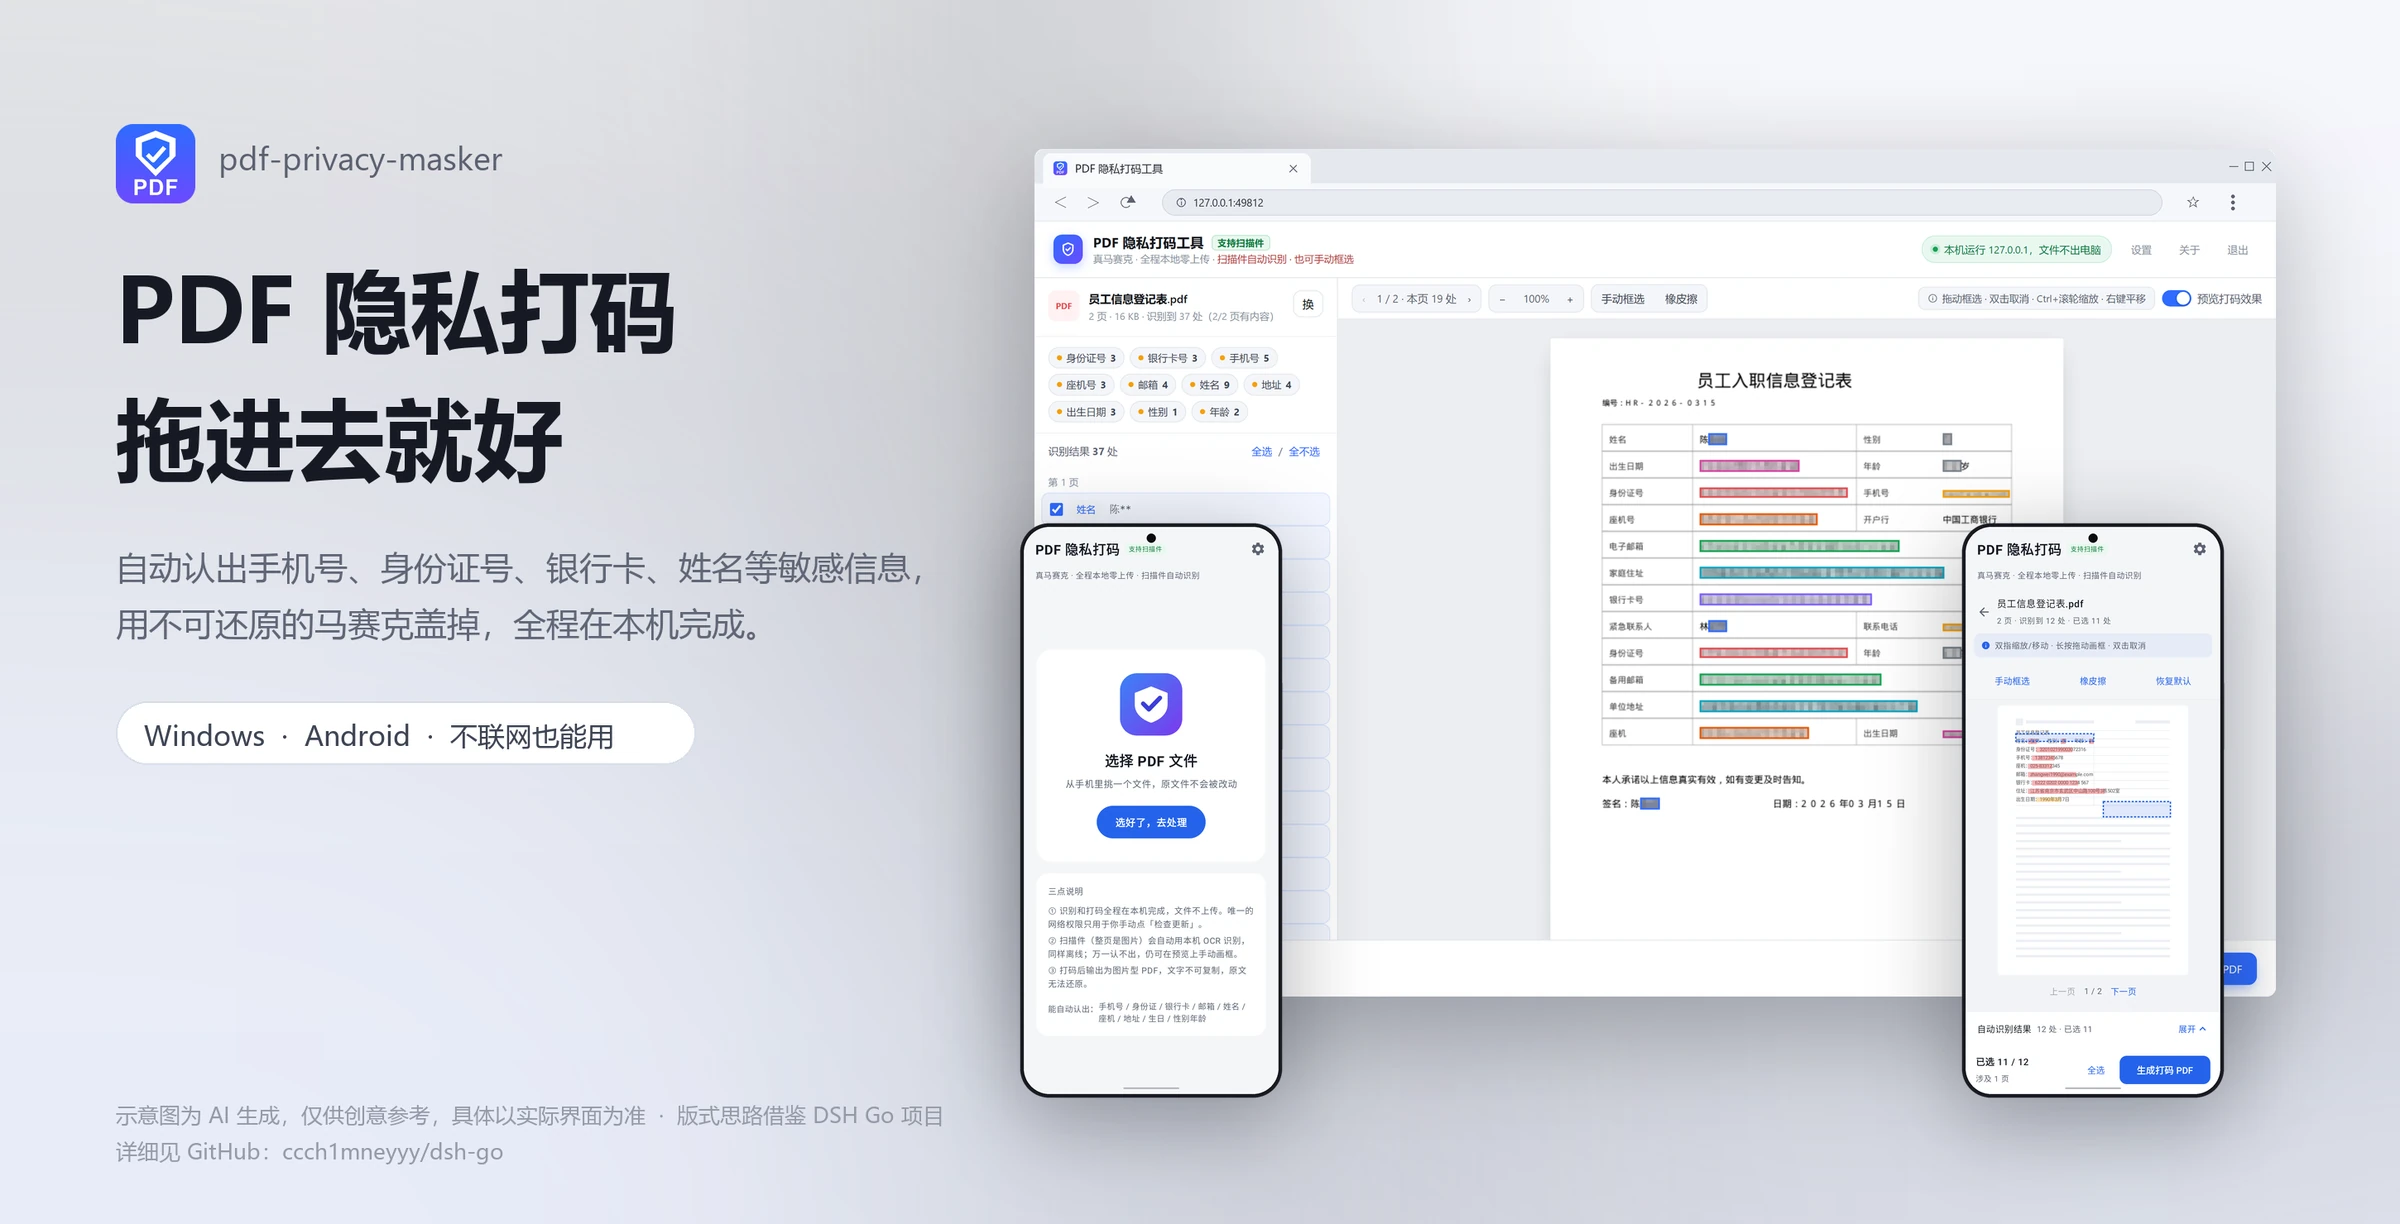
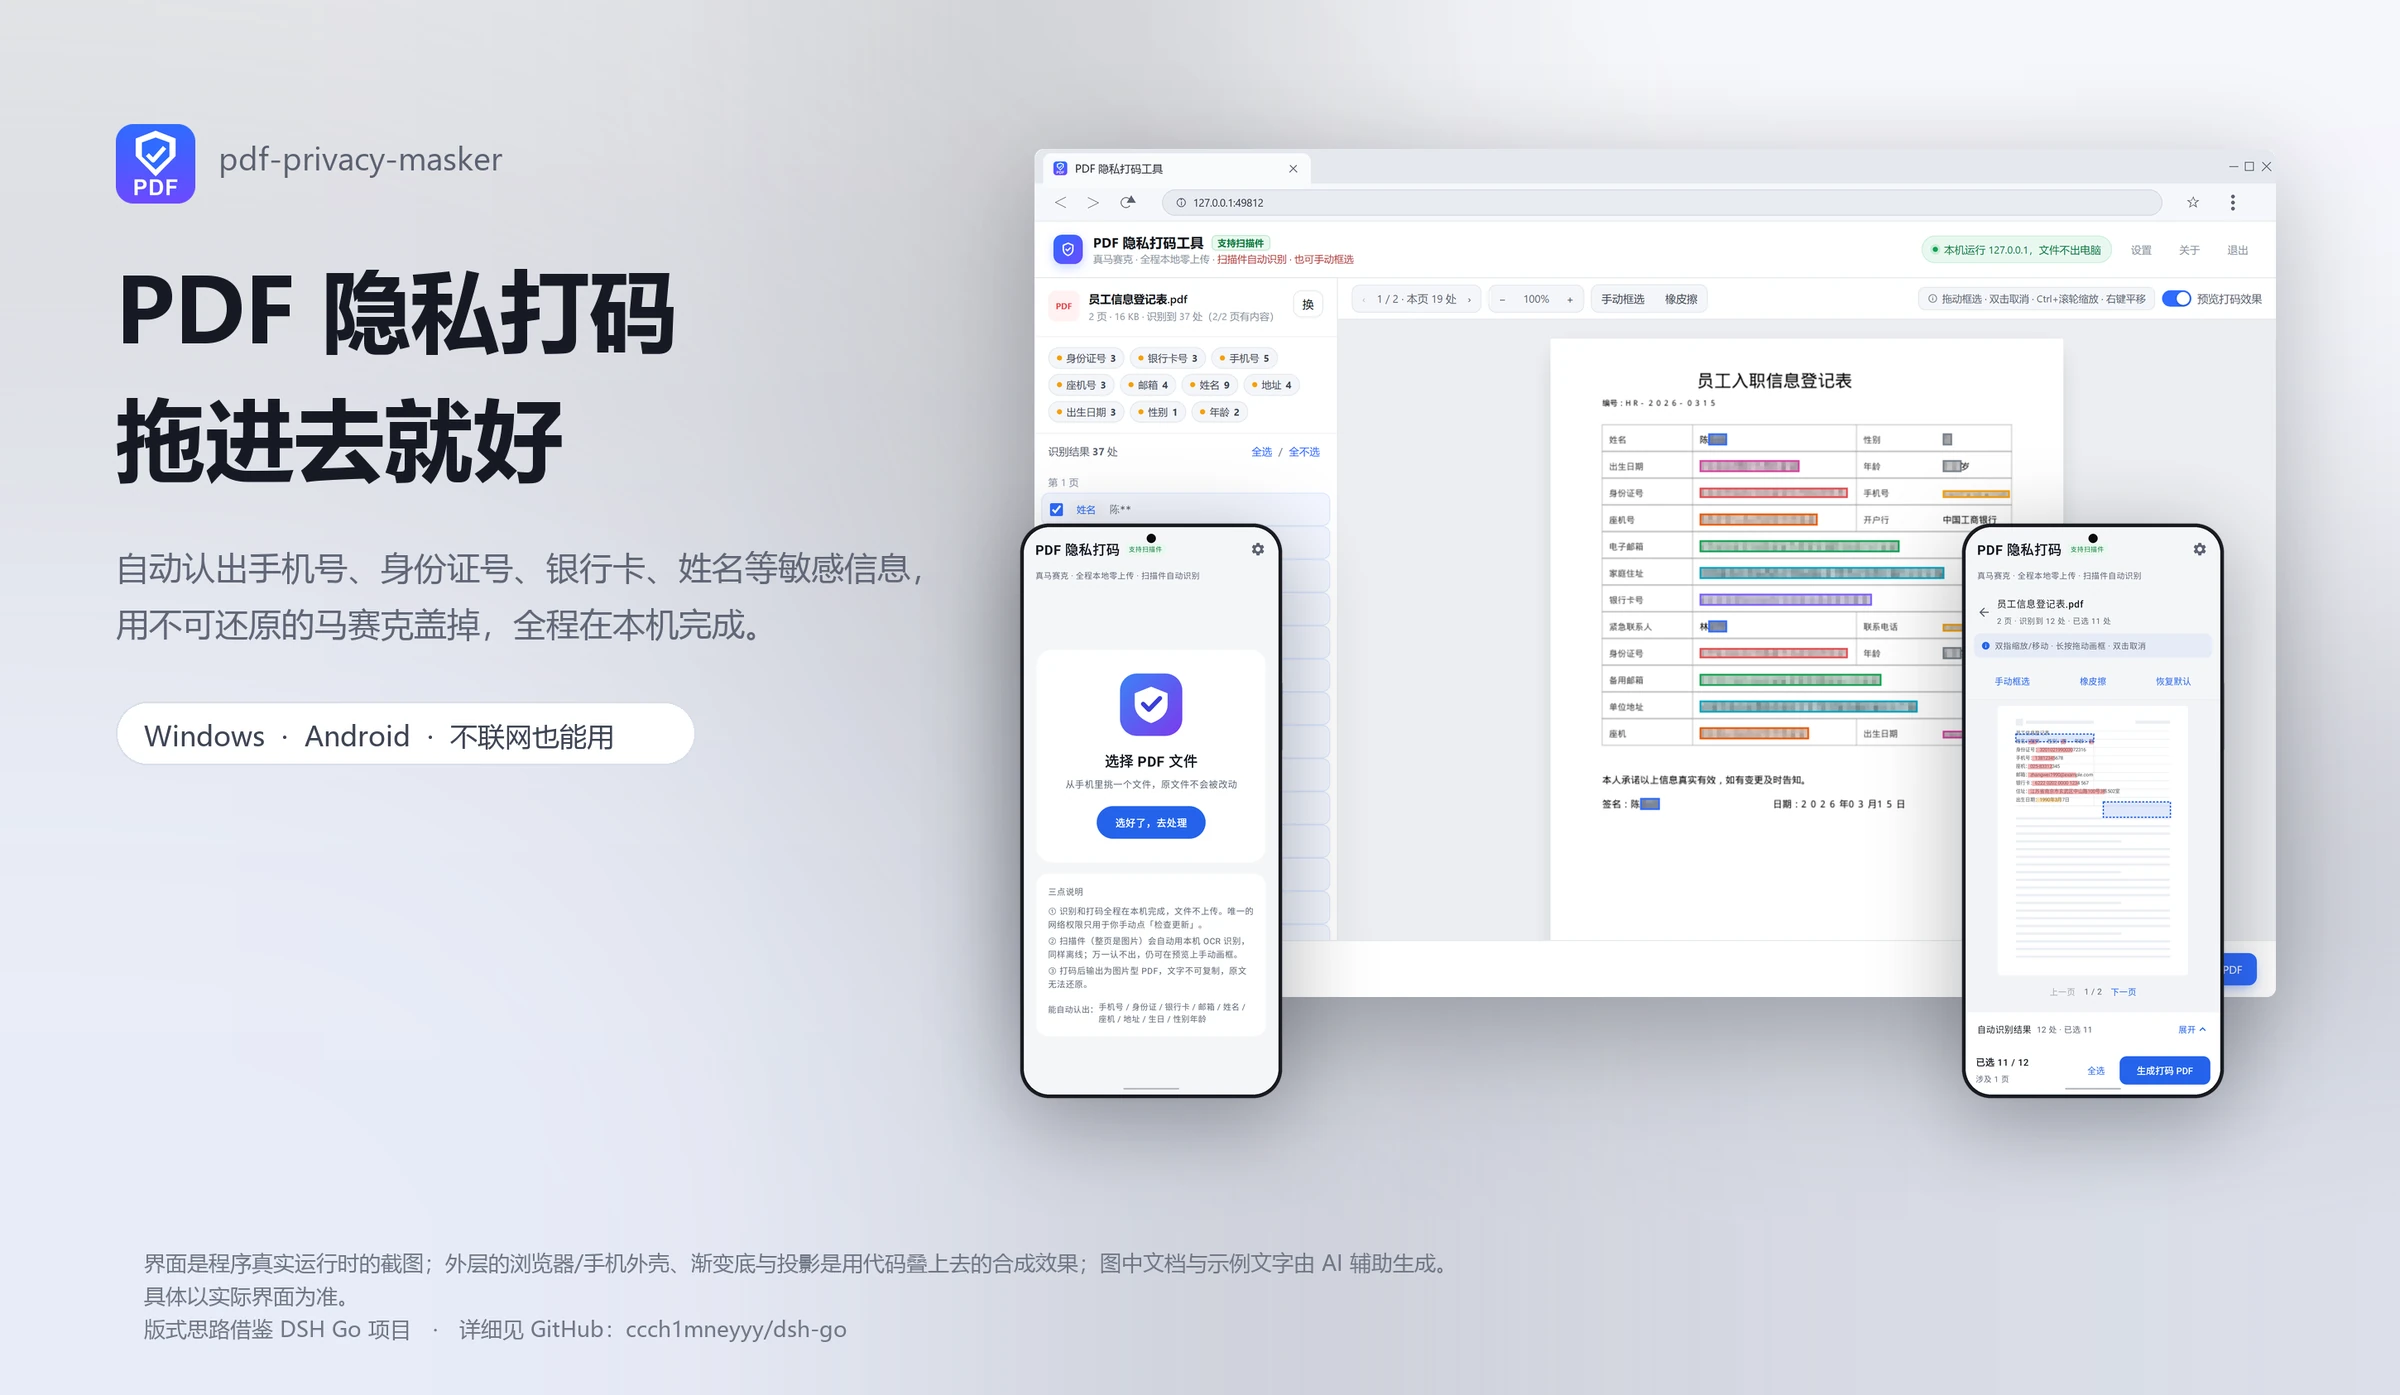
docs(shots): 每张配图压一行小字，讲清截图/代码合成/AI 辅助，并注明以实际为准
新增 dev/shot_note.py 统一文案与折行：套壳图说明「界面是真实截图，外壳/底色/
投影是代码叠的」；纯截图说明「未做合成修饰」；两类都补「图中文档与示例文字由
AI 辅助生成」「具体以实际界面为准」。首页横幅保留 DSH Go 版式署名。

diff --git a/dev/shot_note.py b/dev/shot_note.py
@@ -1,0 +1,179 @@
+# -*- coding: utf-8 -*-
+"""README / 文档配图统一的小字说明（右下角那行）。
+
+为什么要有这个
+--------------
+这些图不是「拍一张屏幕」那么简单：界面本身是程序真实运行的截图，但外面的
+浏览器窗口 / 手机外壳、渐变底、投影，全是代码叠上去的合成效果；图里那份
+PDF 和上面的姓名电话，也是脚本生成的测试样例。不加说明的话，读者会以为
+整张图都是原始截图，或者反过来以为是画出来的效果图。所以每张图下面都压一
+行小字，把这三件事讲清楚，再加一句「具体以实际界面为准」。
+
+用法
+----
+    # 由 dev/make_readme_shots.py 调用（画在渐变画布底部）
+    from shot_note import stamp
+    img = stamp(canvas, "zh")
+
+    # 直接处理已有图片（底部不够高会自动延长，重复跑不会叠加）
+    python dev/shot_note.py docs/img/android-interface-framed.png
+"""
+import os
+import sys
+
+from PIL import Image, ImageDraw, ImageFont
+
+HERE = os.path.dirname(os.path.abspath(__file__))
+ROOT = os.path.dirname(HERE)
+# 原图备份：重复处理时从这份重新来，避免小字一层叠一层
+BACKUP = os.path.join(HERE, "_ui", "shot-note-orig")
+
+FONT_CANDS = [
+    r"C:\Windows\Fonts\msyh.ttc",
+    "/System/Library/Fonts/PingFang.ttc",
+    "/usr/share/fonts/truetype/wqy/wqy-microhei.ttc",
+]
+FONT_CANDS_EN = [
+    r"C:\Windows\Fonts\segoeui.ttf",
+    "/System/Library/Fonts/Helvetica.ttc",
+    "/usr/share/fonts/truetype/dejavu/DejaVuSans.ttf",
+]
+
+# 两行：第一行讲清「哪部分是截图、哪部分是代码加的、内容是 AI 生成的」，
+# 第二行单独一句「具体以实际界面为准」，放最后最醒目的位置。
+NOTE = {
+    "zh": [
+        "界面是程序真实运行时的截图；外层的浏览器/手机外壳、渐变底与投影是用代码叠上去的合成效果；"
+        "图中文档与示例文字由 AI 辅助生成。",
+        "具体以实际界面为准。",
+    ],
+    "en": [
+        "The UI is a real screenshot of the running app; the browser/phone frame, gradient background and "
+        "shadow are composited in code; the sample document and its wording are AI-assisted.",
+        "The actual interface prevails.",
+    ],
+}
+
+# 纯截图（没有套壳、没有合成底）用的版本：写清「这张没加工」，别让读者
+# 反过来说「你没说哪些是原图」。
+NOTE_RAW = {
+    "zh": [
+        "本图是程序真实运行时的截图，未做套壳或合成修饰；图中文档与示例文字由 AI 辅助生成。",
+        "具体以实际界面为准。",
+    ],
+    "en": [
+        "This is a real screenshot of the running app, with no frame or compositing added; "
+        "the sample document and its wording are AI-assisted.",
+        "The actual interface prevails.",
+    ],
+}
+
+FINE = {"light": (112, 119, 134), "dark": (162, 170, 186)}
+
+
+def _font(px, lang="zh"):
+    cands = (FONT_CANDS_EN if lang == "en" else []) + FONT_CANDS
+    for c in cands:
+        if os.path.exists(c):
+            try:
+                return ImageFont.truetype(c, px)
+            except Exception:
+                pass
+    return ImageFont.load_default()
+
+
+def _wrap(text, fn, maxw):
+    """按像素宽度折行：中文按字断，英文单词不拆开。"""
+    import re
+    tokens = re.findall(r"[A-Za-z0-9][A-Za-z0-9\.\-\+/:%]*|\s+|.", text)
+    lines, cur = [], ""
+    for t in tokens:
+        trial = cur + t
+        if fn.getlength(trial) <= maxw or not cur.strip():
+            cur = trial
+        else:
+            lines.append(cur.rstrip())
+            cur = "" if t.isspace() else t
+    if cur.strip():
+        lines.append(cur.strip())
+    return lines
+
+
+def stamp(img, lang="zh", credit=None, theme="light", kind="mixed",
+          size=None, lh=None, left=None, top_pad=28, bottom_pad=58, fill=None,
+          band=None):
+    """在图片底部补一块同色区域，写几行小字（可选再跟一行 credit）。
+
+    img 需为 RGBA。返回加高后的新图，原图不动。
+    """
+    # 字号跟着图宽走：2400 宽的主图用 26px，1000 宽的小图用 21px，
+    # 不然小图上那行字会显得跟正文一样大，抢戏。
+    size = size or max(17, min(26, int(img.width / 46)))
+    lh = lh or int(size * 1.55)
+    left = left if left is not None else max(46, int(img.width * 0.06))
+    fn = _font(size, lang)
+    body = NOTE_RAW if kind == "raw" else NOTE
+    raw = list(body[lang]) + ([credit] if credit else [])
+    maxw = max(200, img.width - left * 2)
+    lines = []
+    for t in raw:
+        lines.extend(_wrap(t, fn, maxw))
+    area = top_pad + lh * len(lines) + bottom_pad
+    out = Image.new("RGBA", (img.width, img.height + area), (0, 0, 0, 0))
+    out.paste(img, (0, 0))
+    # 画布用的是渐变底，用最后一行像素往下延展就能接上；纯截图没有渐变，
+    # 硬拉会拉出一条脏边，所以换个干净的底色当「说明条」。
+    if band:
+        out.paste(Image.new("RGBA", (img.width, area), tuple(band)), (0, img.height))
+    else:
+        bottom = img.crop((0, img.height - 1, img.width, img.height)).resize(
+            (img.width, area), Image.BILINEAR)
+        out.paste(bottom, (0, img.height))
+    d = ImageDraw.Draw(out)
+    col = fill or FINE.get(theme, FINE["light"])
+    y = img.height + top_pad
+    for ln in lines:
+        d.text((left, y), ln, font=fn, fill=tuple(col) + (255,))
+        y += lh
+    return out
+
+
+def stamp_file(path, lang="zh", theme="light", fill=None, kind="mixed"):
+    """就地处理一张已有图片：先备份原图，重复跑不会叠加小字。"""
+    os.makedirs(BACKUP, exist_ok=True)
+    base = os.path.basename(path)
+    bak = os.path.join(BACKUP, base)
+    src = bak if os.path.exists(bak) else path
+    if not os.path.exists(bak):
+        with open(src, "rb") as fh:
+            data = fh.read()
+        with open(bak, "wb") as fh:
+            fh.write(data)
+    im = Image.open(src)
+    fmt = (im.format or "PNG").upper()
+    im = im.convert("RGBA")
+    # 按画面明暗挑说明条的底色：浅色图配浅条 + 深字，深色图反过来
+    lum = im.convert("L").resize((1, 1), Image.LANCZOS).getpixel((0, 0))
+    light = lum > 110
+    band = (246, 247, 250, 255) if light else (24, 27, 34, 255)
+    fill = fill or ((88, 95, 110) if light else (178, 186, 200))
+    out = stamp(im, lang=lang, theme=theme, fill=fill, kind=kind, band=band)
+    if fmt == "JPEG":
+        out.convert("RGB").save(path, "JPEG", quality=92)
+    else:
+        out.save(path, "PNG", optimize=True)
+    print("  小字已加：%s  (+%d px)" % (os.path.relpath(path, ROOT), out.height - im.height))
+    return path
+
+
+if __name__ == "__main__":
+    themes = {"--dark": "dark"}
+    args = [a for a in sys.argv[1:] if not a.startswith("--")]
+    theme = next((themes[a] for a in sys.argv[1:] if a in themes), "light")
+    lang = "en" if "--en" in sys.argv[1:] else "zh"
+    kind = "raw" if "--raw" in sys.argv[1:] else "mixed"
+    if not args:
+        raise SystemExit(__doc__)
+    for p in args:
+        p = p if os.path.isabs(p) else os.path.join(ROOT, p)
+        stamp_file(p, lang=lang, theme=theme, kind=kind)

diff --git a/dev/make_readme_shots.py b/dev/make_readme_shots.py
@@ -28,6 +28,10 @@ README 里原来放的是纯界面截图（Windows 1120×720、安卓 1080×2400
     python dev/make_readme_shots.py            # 全部生成
     python dev/make_readme_shots.py --win      # 只重出 Windows 截图
     python dev/make_readme_shots.py --frames   # 只重新套壳（复用已有截图）
+
+每张图底部都会压一行小字（真实截图 / 代码合成 / 内容 AI 辅助 / 以实际为准），
+文案和折行在 dev/shot_note.py 里，改一次所有图统一生效；纯截图那几张用
+`python dev/shot_note.py --raw <图片>` 单独加。
 """
 import base64
 import glob
@@ -46,6 +50,8 @@ for p in (ROOT, HERE):
         sys.path.insert(0, p)
 
 from PIL import Image, ImageDraw, ImageFilter, ImageFont  # noqa: E402
+
+from shot_note import stamp  # noqa: E402
 
 OUT = os.path.join(ROOT, "docs", "img", "shot")
 TMP = os.path.join(HERE, "_ui", "win")
@@ -98,11 +104,13 @@ THEMES = {
     ),
 }
 TH = THEMES["light"]
+THEME_NAME = "light"
 
 
 def set_theme(name):
-    global TH
+    global TH, THEME_NAME
     TH = THEMES[name]
+    THEME_NAME = name
 
 
 # ----------------------------------------------------------------- 字体 / 图标
@@ -529,8 +537,12 @@ def fit(img, max_w=None, max_h=None):
     return img
 
 
-def save(img, name, width=2400, quality=90):
+def save(img, name, width=2400, quality=90, lang=None, credit=None):
     os.makedirs(OUT, exist_ok=True)
+    if lang:
+        # 每张图底部压一行小字：哪部分是真实截图、哪部分是代码叠的、内容是 AI
+        # 辅助生成的、具体以实际为准。文字和排版统一在 dev/shot_note.py 里。
+        img = stamp(img, lang=lang, credit=credit, theme=THEME_NAME)
     if img.width > width:
         ratio = width / float(img.width)
         img = img.resize((width, int(img.height * ratio)), Image.LANCZOS)
@@ -625,16 +637,15 @@ HERO = {
         sub=["自动认出手机号、身份证号、银行卡、姓名等敏感信息，",
              "用不可还原的马赛克盖掉，全程在本机完成。"],
         pill="Windows  ·  Android  ·  不联网也能用",
-        note="示意图为 AI 生成，仅供创意参考，具体以实际界面为准  ·  版式思路借鉴 DSH Go 项目",
-        repo="详细见 GitHub：ccch1mneyyy/dsh-go"),
+        # 首页横幅的版式思路来自 DSH Go，这行署名不能删
+        credit="版式思路借鉴 DSH Go 项目　·　详细见 GitHub：ccch1mneyyy/dsh-go"),
     "en": dict(
         title=["PDF Privacy", "Masker"],
         sub=["Detects phone numbers, ID numbers, bank cards,",
              "names and more — then covers them all with",
              "irreversible mosaic. Nothing leaves your device."],
         pill="Windows  ·  Android  ·  Works offline",
-        note="AI-generated illustration, for reference only — the actual UI may differ  ·  layout inspired by DSH Go",
-        repo="Details on GitHub: ccch1mneyyy/dsh-go"),
+        credit="Layout inspired by the DSH Go project  ·  details: github.com/ccch1mneyyy/dsh-go"),
 }
 
 
@@ -680,11 +691,8 @@ def hero(lang):
     d.text((140 + 34, y + 54 + 19), HERO[lang]["pill"],
            font=font(33, en=(lang == "en")), fill=TH["pill_text"])
 
-    # 左下角两行小字：第一行说明这张图是合成示意、并注明版式借鉴来源，
-    # 第二行只写仓库路径（不带 https，越短越好）。整块离底边留出约两厘米。
-    fn = font(26, en=(lang == "en"))
-    d.text((140, H - 150), HERO[lang]["note"], font=fn, fill=TH["fine"])
-    d.text((140, H - 106), HERO[lang]["repo"], font=font(26, en=(lang == "en")), fill=TH["fine"])
+    # 底部的小字（真实截图 / 代码合成 / AI 辅助 / 以实际为准）由 save() 统一
+    # 用 dev/shot_note.py 压上去，这里不再单独画，免得两处文字对不上。
     return cv
 
 
@@ -730,11 +738,12 @@ def main():
         print("套壳出图 · %s" % theme)
         for lang in ("zh", "en"):
             suf = "%s-%s.webp" % (lang, theme)
-            save(single_window(lang, "work"), "win-work-" + suf)
-            save(single_window(lang, "settings"), "win-settings-" + suf)
-            save(phone_feature(lang), "phone-feature-" + suf)
-            save(hero(lang), "hero-" + suf)
-            save(lang_compare(), "lang-" + suf)
+            save(single_window(lang, "work"), "win-work-" + suf, lang=lang)
+            save(single_window(lang, "settings"), "win-settings-" + suf, lang=lang)
+            save(phone_feature(lang), "phone-feature-" + suf, lang=lang)
+            save(hero(lang), "hero-" + suf, lang=lang,
+                 credit=HERO[lang]["credit"])
+            save(lang_compare(), "lang-" + suf, lang=lang)
 
 
 if __name__ == "__main__":
